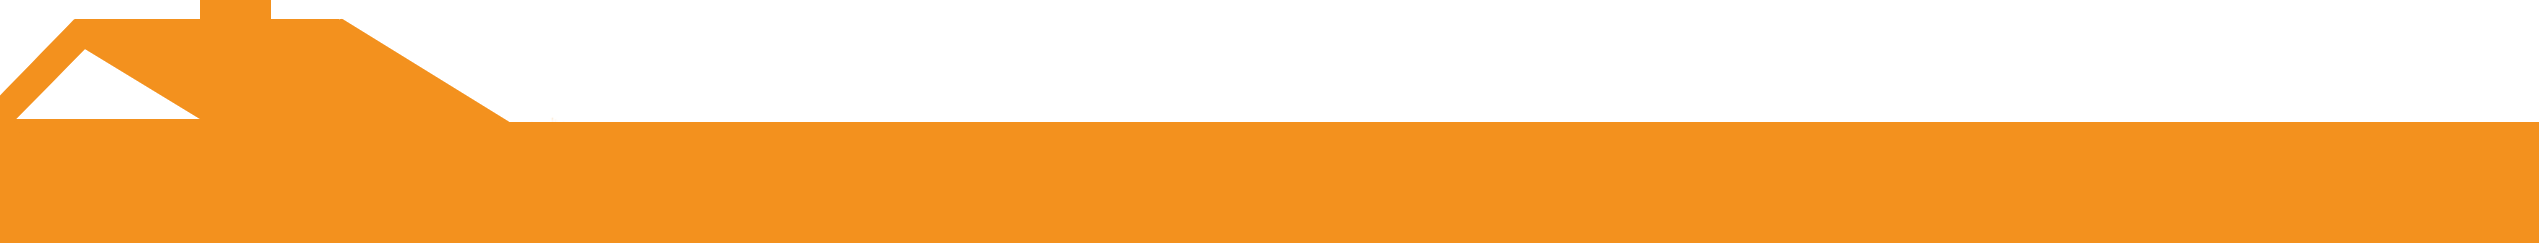
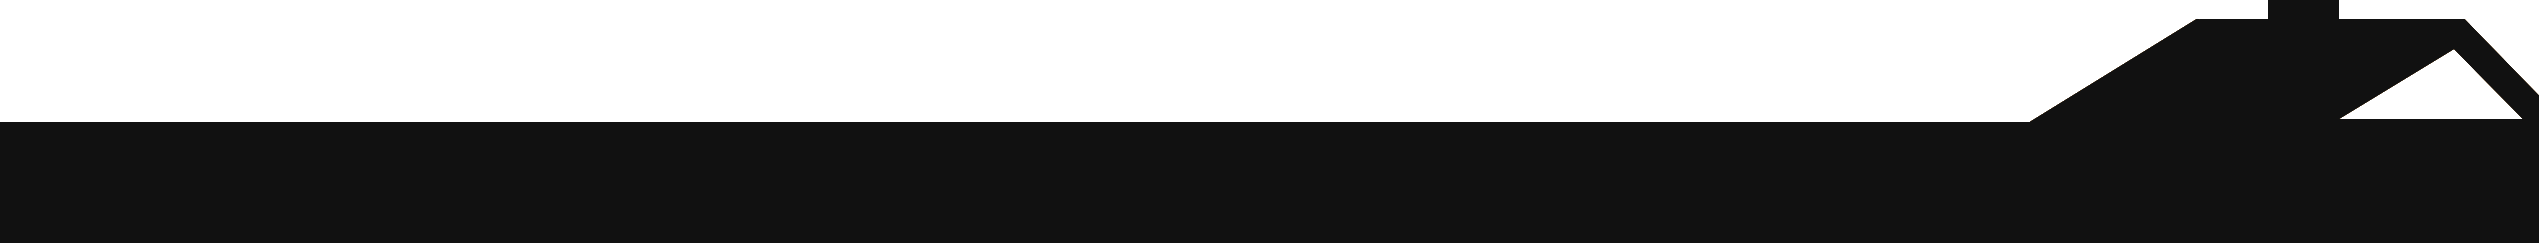
phone

diff --git a/index.html b/index.html
@@ -31,6 +31,9 @@
 			<a href="#divProduction">Créations</a>
 			<a href="#divRenovation">Rénovations</a>
 			<a href="#divContact">Contact</a>
+			
+			<a href="https://www.facebook.com/toitureslecroart" target="_blank">N'oubliez pas de nous rejoindre sur facebook !</a>
+			<a class = "copyright">© 2020 Moermans Guillaume</a>
 		</div>
 		<div id = "divAccueil" class = "beforeScroll">
 			<h1>Accueil</h1>
@@ -77,7 +80,7 @@
 			<h1>Contactez nous dès maintenant !</h1>
 				<p class="ctc">Benoit Lecroart</p>
 				<p class="ctc">&#x260F; 0471 89 55 09</p>
-				<p class="ctc">&#x2709; toitureslecroart@gmail.com</p>
+				<p class="ctc"><a href="mailto:toitureslecroart@gmail.com">&#x2709; toitureslecroart@gmail.com<a></p>
 				<p class="ctc">Vous pouvez également nous contacter via ce formulaire</p>
 				<p class="ctc">founissez nous votre adresse mail ainsi que votre demande en quelques mots, nous vous recontacterons au plus vite !</p>
 				<form
@@ -123,9 +126,7 @@
 	
 		<!-- Footer section-->
 		<footer>
-			<p><a href="https://www.facebook.com/toitureslecroart" target="_blank">N'oubliez pas de nous rejoindre sur facebook !</a></p>
-			<p><a href="mailto:toitureslecroart@gmail.com" target="_blank">toitureslecroart@gmail.com</a>
-			<span><p class = "ctc">© 2020 Moermans Guillaume</p></span></p>
+
 		</footer>
 		
 	</body>

diff --git a/style.css b/style.css
@@ -155,9 +155,14 @@ div
     grid-row-end: 9;
 }
 
+.copyright{
+	font-size: 5%;
+	position: absolute;
+    bottom: 0;
+}
 footer{
 
-		background-color: #111;
+		background-image: url('fter1.png');
         padding-bottom: 9%;
 		padding-top:0;
 		padding-left:0;
@@ -199,7 +204,7 @@ footer{
 	color : orange;
 }
 
-.sidenav {
+.sidenav:not(.copyright) {
   height: 100%; /* 100% Full-height */
   width: 0; /* 0 width - change this with JavaScript */
   position: fixed; /* Stay in place */
@@ -233,6 +238,14 @@ footer{
   transition: 0.3s;
 }
 
+.sidebar-footer{
+	height: 50px;
+	position: absolute;
+	width: 100%;
+	bottom: 0;
+	list-style-type: none;
+	padding-bottom:5.5em;
+}
 /* When you mouse over the navigation links, change their color */
 .sidenav a:hover {
   background-color: orange;
